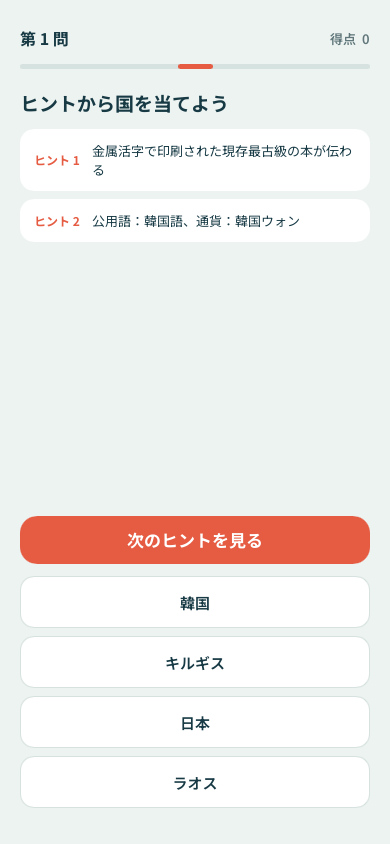
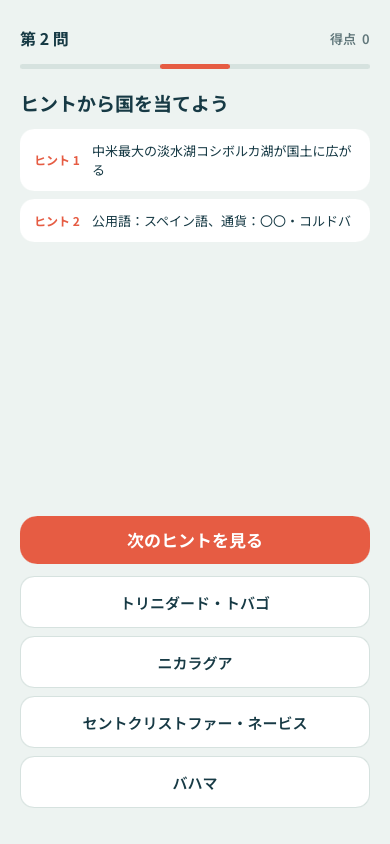
fix: 雑学ヒントの公用語・通貨・首都から国名を伏せる (#5)
## 概要
雑学問題のヒント 2（公用語・通貨）とヒント 3（首都）に含まれる国名を「〇〇」に置き換え、答えがそのまま出ないようにする

## 背景
- 193 か国中 119 か国でヒント 2 に国名が含まれていた（例: 韓国 →「公用語：韓国語、通貨：韓国ウォン」）

## 変更
- `quiz::hints` で国名を「〇〇」に置換（例: 「公用語：〇〇語、通貨：〇〇ウォン」「首都：〇〇市」）
- 通称が残る 6 か国（北マケドニア、北朝鮮、南アフリカ共和国、ドミニカ共和国、コンゴ民主共和国、マーシャル諸島）に `aliases_ja`
を追加し、通称も伏せる
- README の雑学スクリーンショットを差し替えた
- 実データ全件でどのヒントにも国名・通称が含まれないことを確認するテストを追加した

diff --git a/src/quiz.rs b/src/quiz.rs
@@ -119,14 +119,20 @@ pub fn trivia_points(hints_revealed: u8) -> u32 {
 /// Builds the three Japanese hints in their reveal order.
 #[must_use]
 pub fn hints(country: &Country) -> [String; 3] {
+    // Languages, currencies, and capitals often contain the country name (韓国語, 韓国ウォン).
+    let mask = |hint: String| {
+        std::iter::once(&country.name_ja)
+            .chain(&country.aliases_ja)
+            .fold(hint, |hint, name| hint.replace(name.as_str(), "〇〇"))
+    };
     [
         country.trivia_ja.clone(),
-        format!(
+        mask(format!(
             "公用語：{}、通貨：{}",
             country.languages_ja.join("、"),
             country.currency_ja
-        ),
-        format!("首都：{}", country.capital_ja),
+        )),
+        mask(format!("首都：{}", country.capital_ja)),
     ]
 }
 
@@ -195,6 +201,7 @@ mod tests {
         Country {
             iso2: format!("C{index:02}"),
             name_ja: format!("国{index}"),
+            aliases_ja: Vec::new(),
             name_en: format!("Country {index}"),
             region,
             capital_ja: format!("首都{index}"),
@@ -383,5 +390,21 @@ mod tests {
                 "首都：首都1".to_owned(),
             ]
         );
+    }
+
+    #[test]
+    fn hints_never_reveal_the_country_name() -> Result<(), Box<dyn std::error::Error>> {
+        for country in crate::data::load_countries()? {
+            for hint in hints(&country) {
+                for name in std::iter::once(&country.name_ja).chain(&country.aliases_ja) {
+                    assert!(
+                        !hint.contains(name.as_str()),
+                        "{} hint reveals {name}: {hint}",
+                        country.iso2
+                    );
+                }
+            }
+        }
+        Ok(())
     }
 }

diff --git a/src/data.rs b/src/data.rs
@@ -25,6 +25,9 @@ pub struct Country {
     pub iso2: String,
     /// Short country name in Japanese.
     pub name_ja: String,
+    /// Short names hidden from hints, such as マケドニア for 北マケドニア.
+    #[serde(default, skip_serializing_if = "Vec::is_empty")]
+    pub aliases_ja: Vec<String>,
     /// Country name in English.
     pub name_en: String,
     /// UN M49 region.
